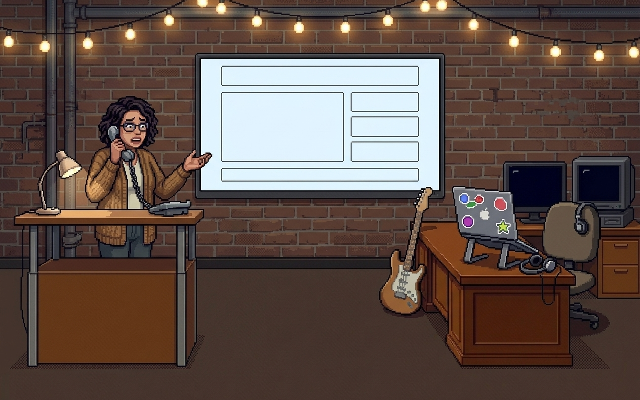
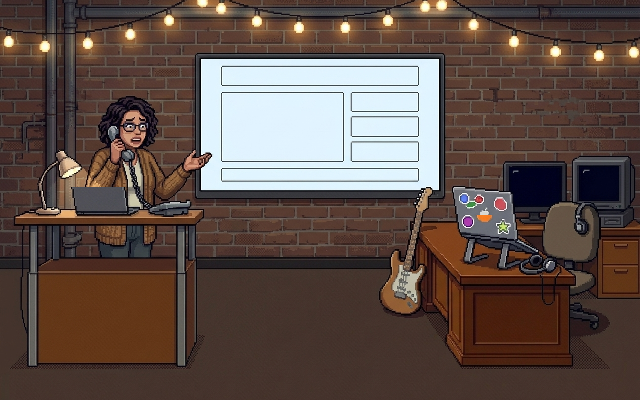
art: room-ch3 laptop on her desk, sticker fix, win frame (2026-11-13)
Claude-Session: https://claude.ai/code/session_014bw7Voj6ZyqA75pqeRWNHh

Changed region(s): [[0.0938, 0.45, 0.25, 0.57], [0.75, 0.54, 0.8125, 0.57]]

diff --git a/art-drops/2026-11-12-room-ch3/HANDBACK.md b/art-drops/2026-11-12-room-ch3/HANDBACK.md
@@ -8,6 +8,7 @@ From `briefs/art/01-rooms-2-5.md` (room 3) and `briefs/art/02-persona-cards.md` 
 |---|---|
 | `R3_bullpen.png` | Room plate |
 | `R3_npc_talk_1.png`, `R3_npc_talk_2.png` | The persona in two other moments; differ from the plate only in the region below |
+| `R3_npc_win.png` | **New 2026-11-13.** Win frame: she hangs up the phone, relieved, with a small fist pump (`ch3.recovered`, `ch3.win`) |
 | `R3_wall_closeup.png` | The wall display straight on, all panels blank |
 | `R3_pc_closeup.png` | The hero's computer screen straight on, blank |
 | `P3_card.png` | `P3_card`: Bard of the Browser. Feathered cap, cape, tunic over the cardigan, striking a chord on a lute-shaped guitar with one boot on an amp, sparks off the strings. Reads at 128×80. |
@@ -50,11 +51,23 @@ From `briefs/art/01-rooms-2-5.md` (room 3) and `briefs/art/02-persona-cards.md` 
 
 The loop plate → talk_1 → plate → talk_2 swaps cleanly. Changed region: talk_1: x 27–117, y 20–135. talk_2: x 27–112, y 20–135. (the region includes a few stray pixels round the figure that match the plate to within a shade).
 
+
+## Updates for the revised script (2026-11-13)
+
+Cloud Claude rewrote chapter 3 around this drop. These changes fit the art to it:
+- **A laptop on her standing desk.** `ch3.look.npc` says "On her screen is a pull request: a nicer spinner", but her desk had no screen. A small laptop now sits there, lid toward the viewer (about x 40–70, y 100–118). It's in the plate, both talk frames and the win frame.
+- **The sticker in the middle of the spare laptop's lid** looked like a well-known fruit logo. It's now a plain orange sticker.
+- **New `R3_npc_win`** differs from the plate only inside **x 10–113, y 14–138**. With the talk frames, the frame-swap area for this room is **x 10, y 14, w 108, h 125**.
+- **The guitar is right-handed,** which the script now uses ("Right-handed, like nine in ten of them").
+- **Script loose end:** `ch3.look.workstation` describes a separate workstation with a sticky note. The room has only the spare desk.
+
 ## Flaws kept
 
 See "Changes from the brief". Nothing else known.
 
 ## Provenance
+
+- **2026-11-13 updates:** one edit of the plate for the laptop and the sticker (2 tries, t1 kept; only those two areas composited back, then pasted into the talk frames). Win frame: an edit of the plate, 2 tries, t1 kept; only her figure composited. Script: `scratch/room_gen/gen_set.py` (`R3_fix`, `R3_npc_win`). The earlier versions are in `scratch/room_gen/raw/tries/R3_before_update/`.
 
 - **Tool:** Gemini API `gemini-3.1-flash-image`, 3:2, 1K, 2026-11-12, on Rick's personal account.
 - **Plate:** the brief's room prompt with its opening and closing lines, `scratch/room_gen/raw/R1_exec_floor.png` attached as the style reference (`scratch/room_gen/gen_rooms.py`).
